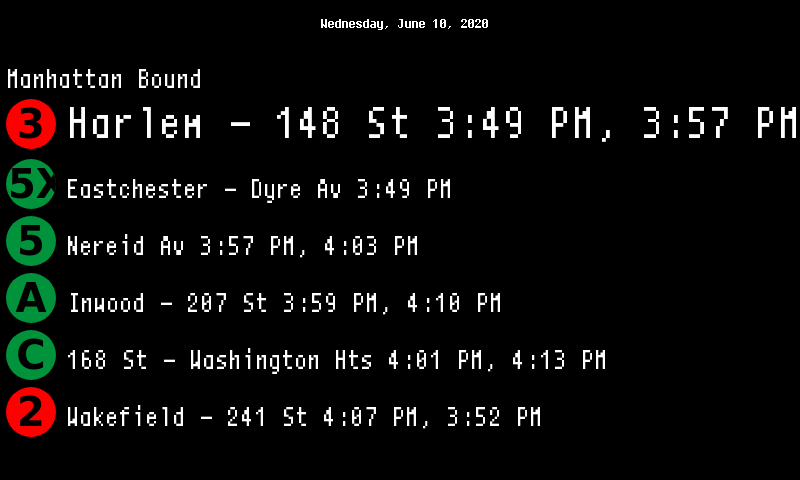
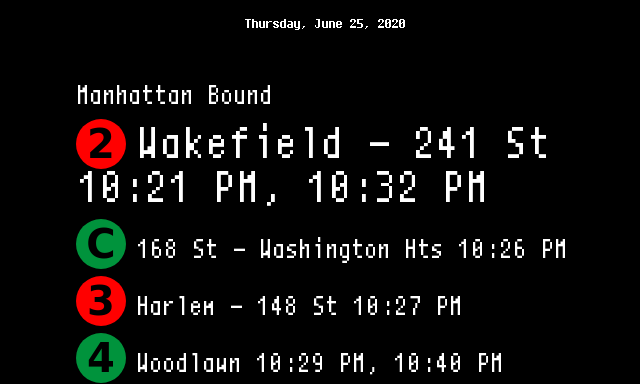
added version b/c support

diff --git a/config.js b/config.js
@@ -1,7 +1,7 @@
 var config = {
   "magicmirror_port": 8080, // magic mirror port
-  "display_width": 800, // eink display height in px
-  "display_height": 480, // eink display width in px
+  "display_width": 640, // eink display height in px
+  "display_height": 384, // eink display width in px
   "wait_to_load": 18, // wait seconds to load the site and display all data
   "refresh_interval": "0 */5 * * * *", // update eink every 10 minutes
   // https://github.com/kelektiv/node-cron#cron-ranges

diff --git a/ePaperPython/main.py b/ePaperPython/main.py
@@ -25,7 +25,7 @@
  # THE SOFTWARE.
  ##
 
-import epd7in5b_V2
+import epd7in5bc
 from PIL import Image
 import logging
 import PIL.ImageOps
@@ -61,7 +61,7 @@ def remove_aliasing_artefacts(image):
 def main():
     logging.info('Starting refresh.')
     logging.debug('Initializing / waking screen.')
-    epd = epd7in5b_V2.EPD()
+    epd = epd7in5bc.EPD()
     epd.init()
 
     og_image = Image.open('screenshot.png')

diff --git a/ePaperPython/epd7in5bc.py b/ePaperPython/epd7in5bc.py
@@ -29,7 +29,7 @@
 
 
 import logging
-from . import epdconfig
+import epdconfig
 
 # Display resolution
 EPD_WIDTH       = 640
